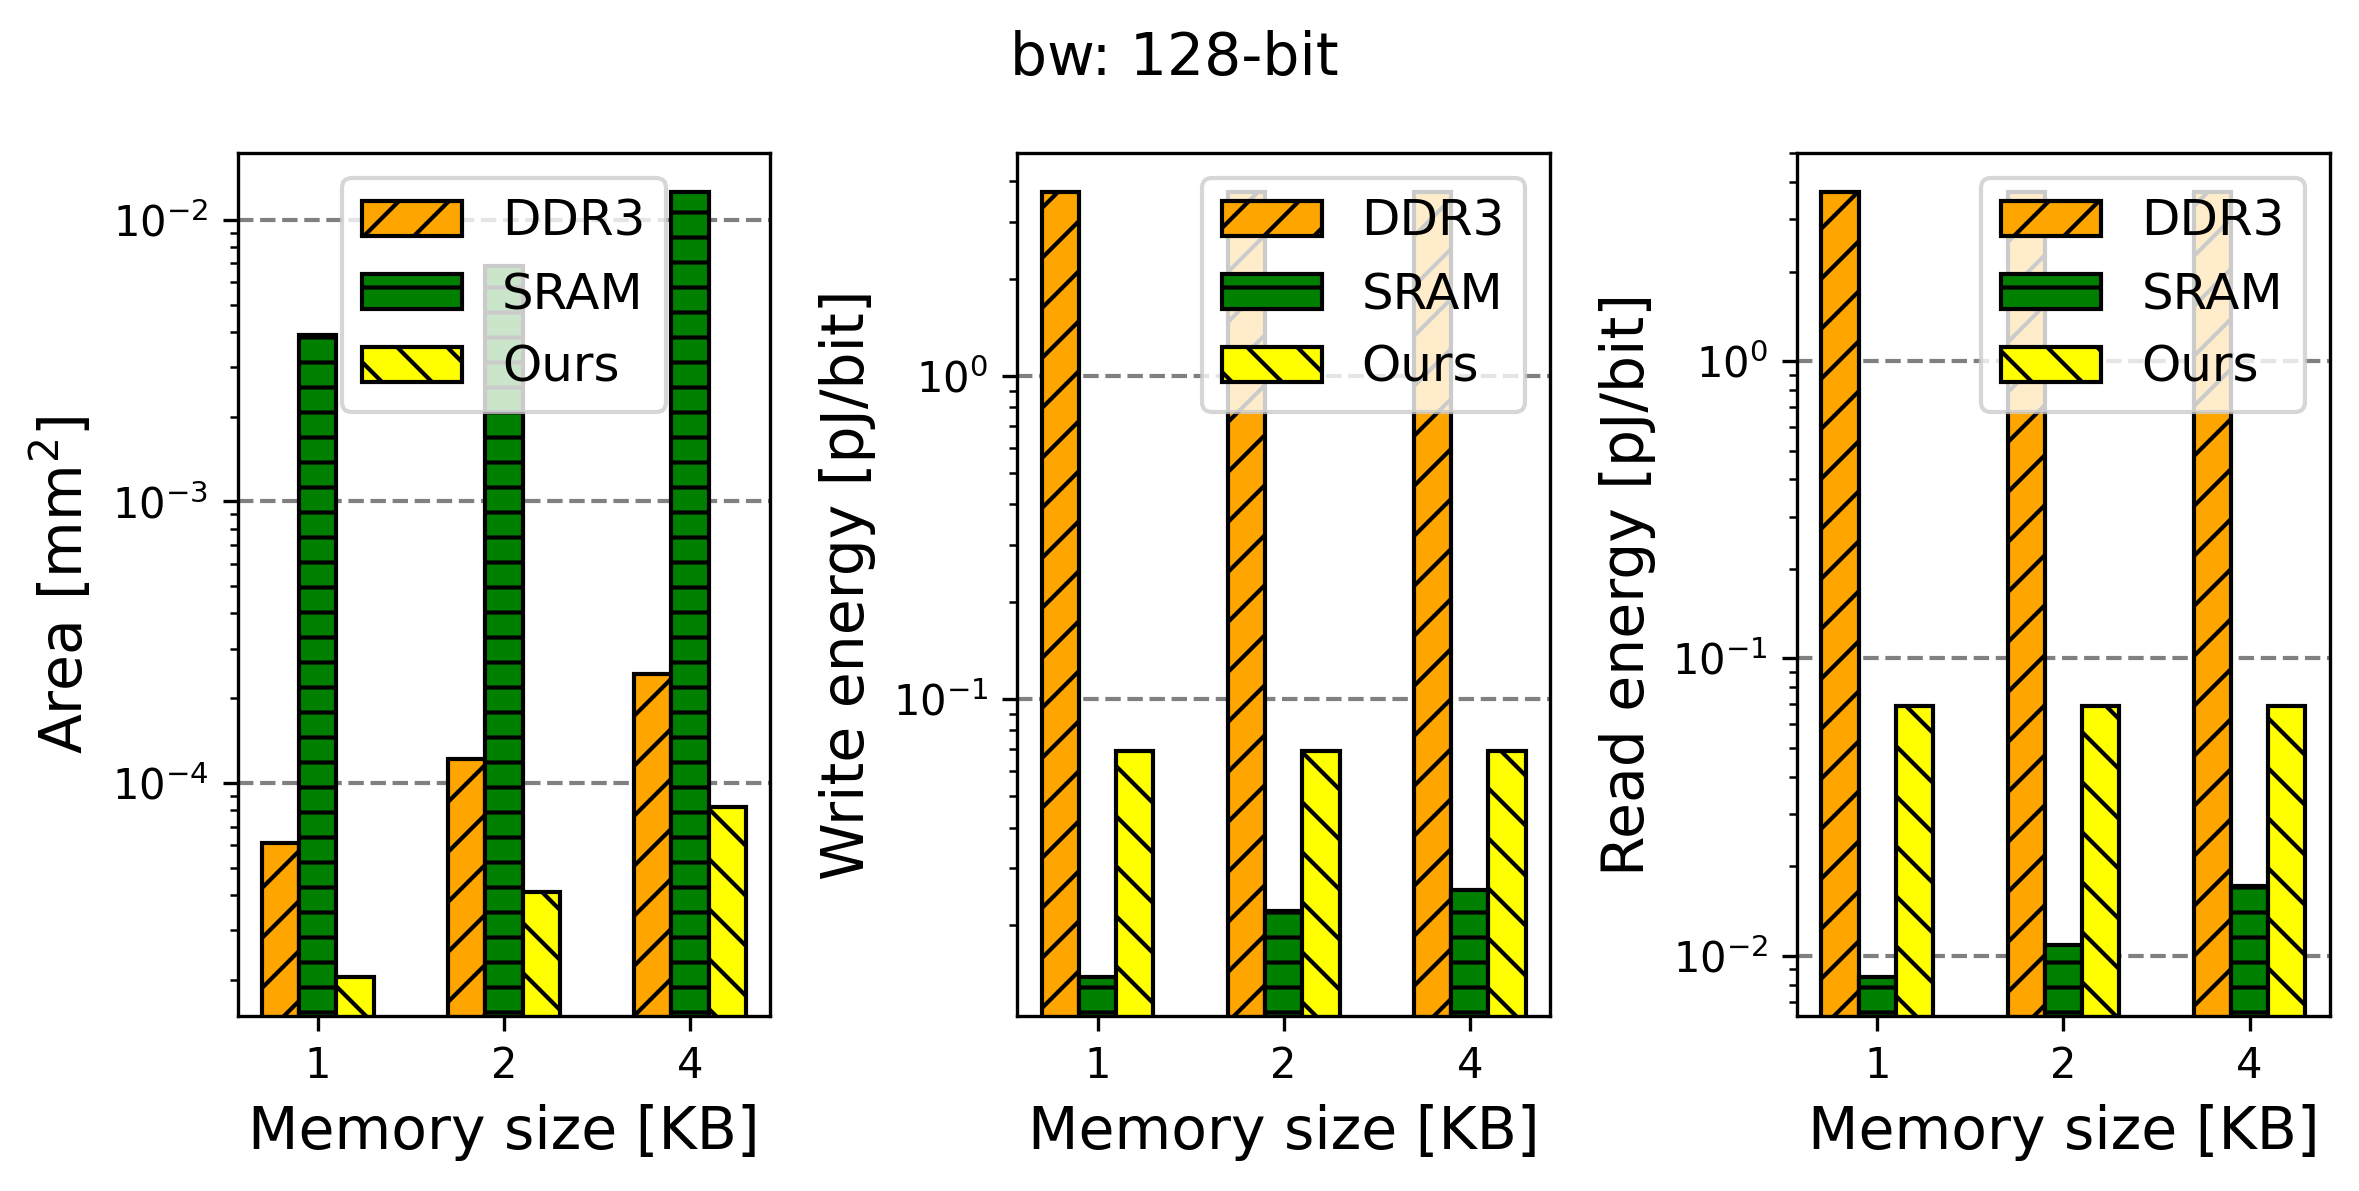
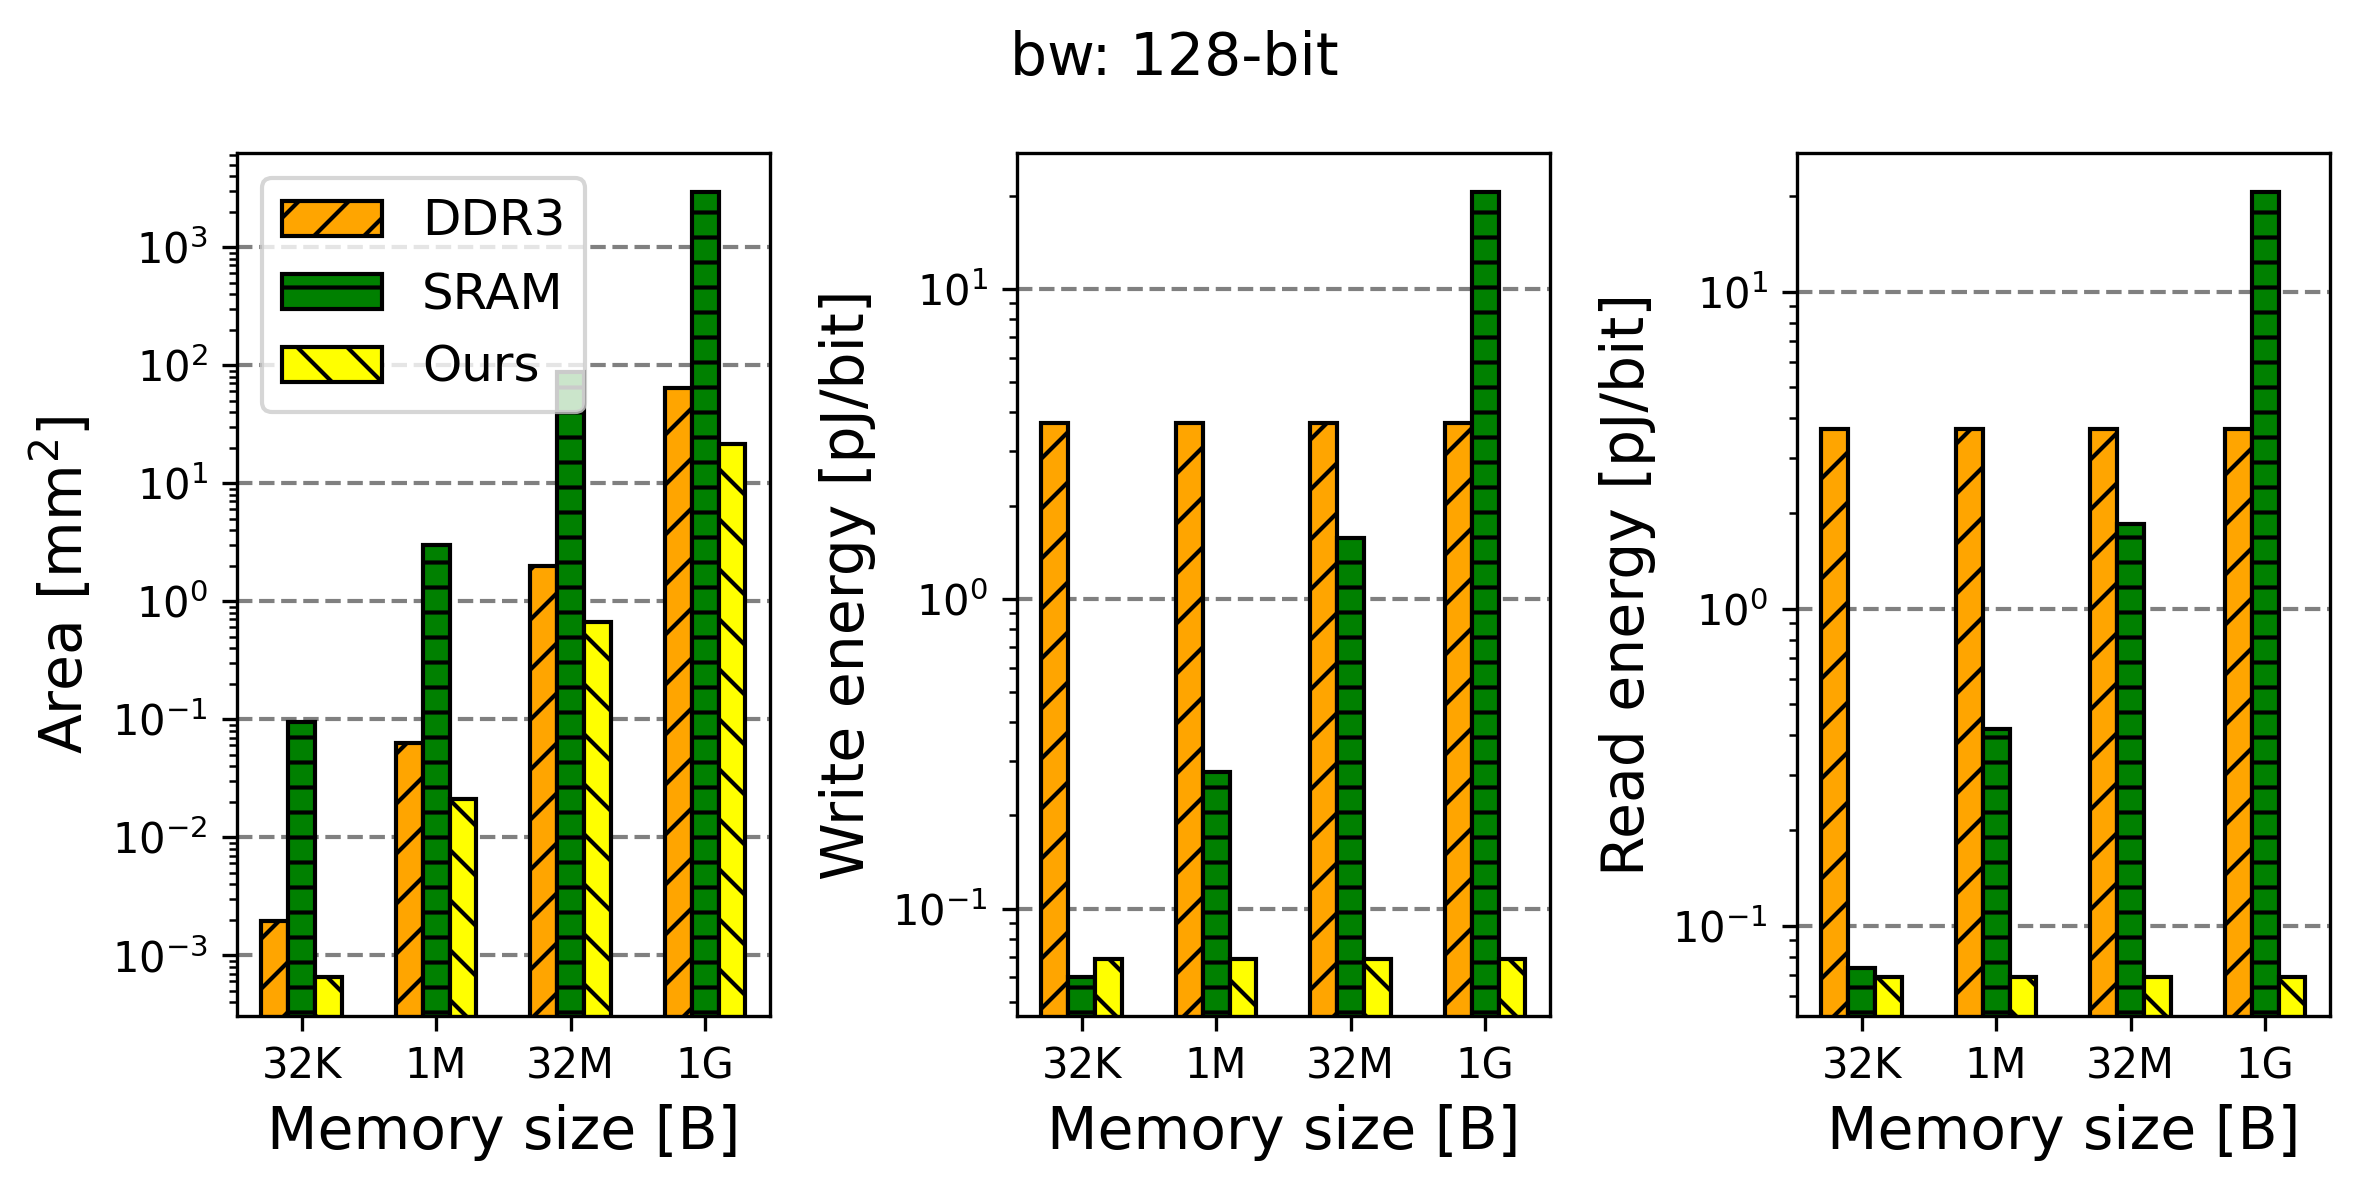
update x labels in plot

Changed region(s): [[0.0309, 0.1243, 0.3404, 0.9631], [0.7117, 0.1243, 0.9903, 0.9631], [0.3713, 0.1243, 0.6499, 0.9941]]

diff --git a/iscas/visualization.py b/iscas/visualization.py
@@ -1,8 +1,12 @@
+import os
+import sys
+
+sys.path.insert(0, os.path.dirname(os.getcwd()))
+
 from zigzag.hardware.architecture.get_cacti_cost import get_cacti_cost
 import matplotlib.pyplot as plt
 import numpy as np
 import logging
-import os
 
 
 def plot_mem_comparison():
@@ -15,7 +19,7 @@ def plot_mem_comparison():
     ###############################
     # initialization
     info = {mem: {} for mem in ["dram", "sram", "bowen"]}
-    mem_size_list = [1024, 2048, 4096]
+    mem_size_list = [32 * 1024, 1024 * 1024, 32 * 1024 * 1024, 1024 * 1024 * 1024]
     for bw in [128]:
         for mem_size in mem_size_list:  # unit: B
             # initialize key with mem_size
@@ -32,7 +36,7 @@ def plot_mem_comparison():
             info["dram"][f"{mem_size}"]["r_cost_per_bit"] = r_cost_per_bit
             info["dram"][f"{mem_size}"]["w_cost_per_bit"] = w_cost_per_bit
             # extract sram result
-            access_time, area, r_cost, w_cost = get_cacti_cost(cacti_path="./zigzag/cacti/cacti_master",
+            access_time, area, r_cost, w_cost = get_cacti_cost(cacti_path="../zigzag/cacti/cacti_master",
                                                                tech_node=0.028,
                                                                mem_type="sram",
                                                                mem_size_in_byte=mem_size,
@@ -91,15 +95,24 @@ def plot_mem_comparison():
     # change x tick label
     for x in range(plot_num):
         axs[x].set_xticks(index)
-        axs[x].set_xticklabels([f"{x // 1024}" for x in mem_size_list])
+        labels = []
+        for mem_size in mem_size_list:
+            if mem_size < 1024*1024:
+                labels.append(f"{mem_size//1024}K")
+            elif mem_size < 1024*1024*1024:
+                labels.append(f"{mem_size // 1024 // 1024}M")
+            else:
+                labels.append(f"{mem_size//1024//1024//1024}G")
+        axs[x].set_xticklabels(labels)
     # add legend and grid
     for x in range(plot_num):
-        axs[x].legend(fontsize=12)
+        if x == 0:
+            axs[x].legend(fontsize=12)
         axs[x].grid(which="major", axis="y", color="gray", linestyle="--", linewidth=1)
         axs[x].set_axisbelow(True)
     # add label
     for x in range(plot_num):
-        axs[x].set_xlabel("Memory size [KB]", fontsize=14)
+        axs[x].set_xlabel("Memory size [B]", fontsize=14)
     axs[0].set_ylabel("Area [mm$^2$]", fontsize=14)
     axs[1].set_ylabel("Write energy [pJ/bit]", fontsize=14)
     axs[2].set_ylabel("Read energy [pJ/bit]", fontsize=14)
@@ -109,9 +122,10 @@ def plot_mem_comparison():
     for x in range(plot_num):
         axs[x].set_yscale("log")
     plt.tight_layout()
+    # plt.show()
     # save plt
-    os.makedirs("./iscas/", exist_ok=True)
-    plt.savefig("./iscas/mem_comparison.png", dpi=300, bbox_inches="tight")
+    # os.makedirs("./iscas/", exist_ok=True)
+    plt.savefig("./mem_comparison.png", dpi=300, bbox_inches="tight")
 
 
 if __name__ == "__main__":
@@ -121,5 +135,10 @@ if __name__ == "__main__":
     logging.basicConfig(level=logging_level, format=logging_format)
     #########################################
     # Experiment 1: area, energy comparison among SRAM and Bowen's mem
+    # comment to bowen:
+    # (1) is it correct that E/bit does not scale with memory size for our case?
+    # (2) is the area trend and value make sense?
     plot_mem_comparison()
+    #########################################
+    # Experiment 2: zigzag evaluation result
     pass
